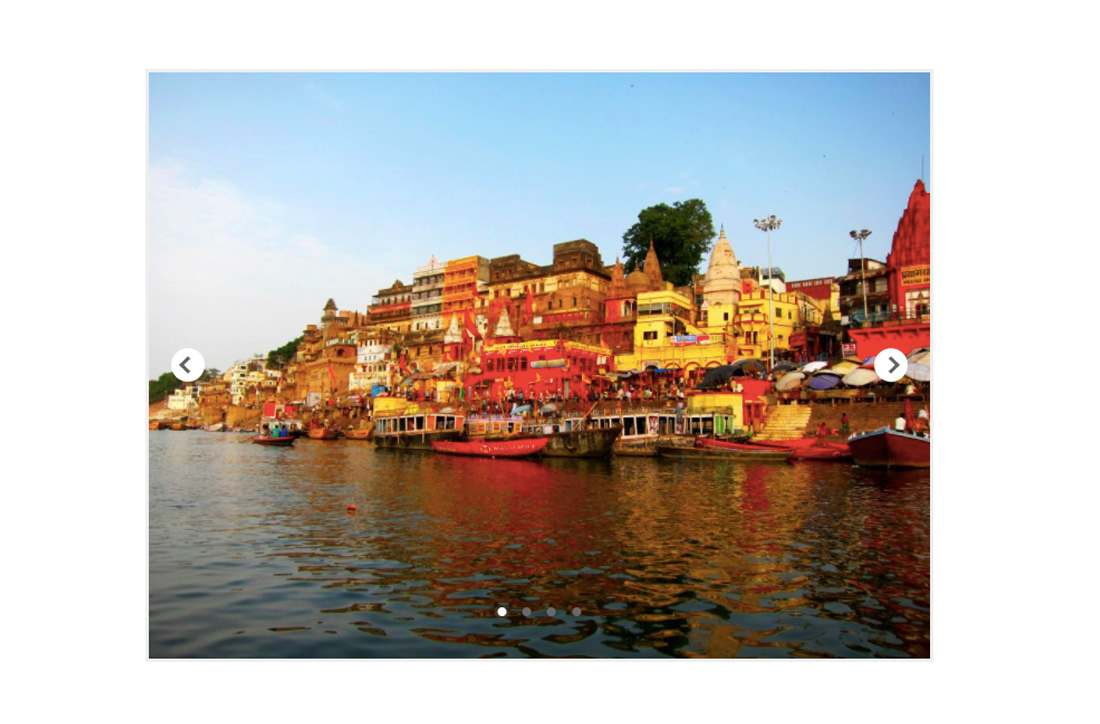
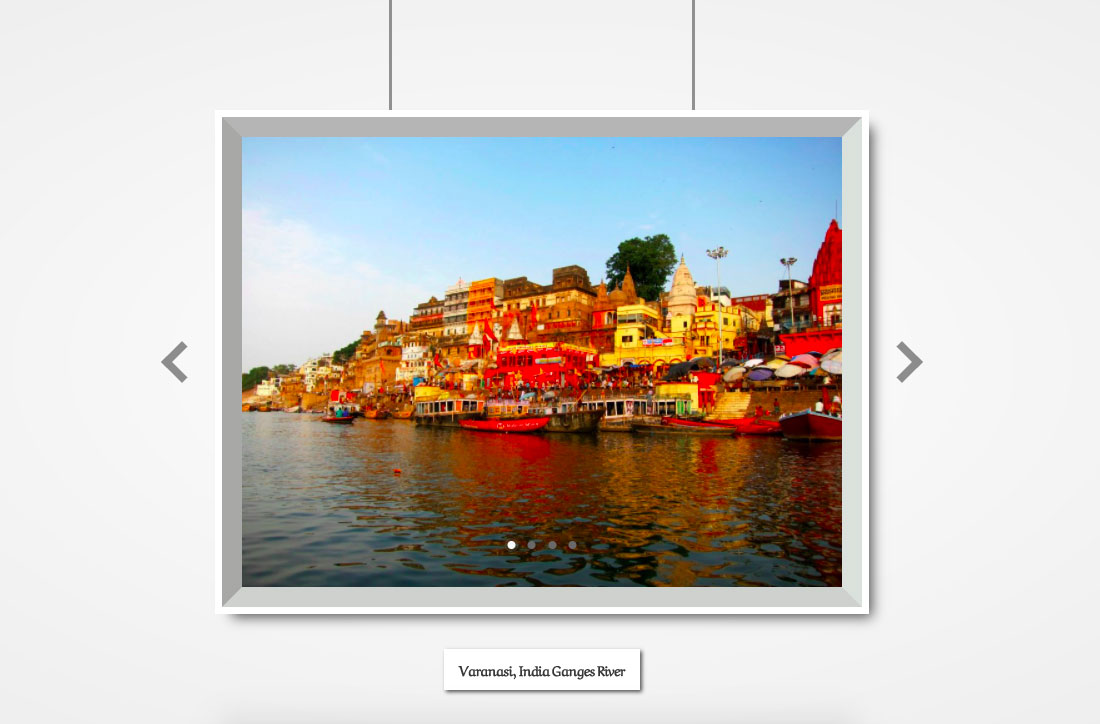
캐러셀이미지갤러리 콘텐츠 완성이미지로 대체

diff --git a/index.html b/index.html
@@ -52,7 +52,7 @@
               <img src="images/carousel-img.jpg" width="100%" alt="이미지 캐러셀 메인 이미지">
             </a>
             <h3>Carousel Image Gallery</h3>
-            <p>자바스크립트로 작업한 캐러셀 : project is under way</p>
+            <p>자바스크립트로 작업한 캐러셀</p>
           </article>
         </div>
         <div class="two_content cf">

diff --git a/css/common.css b/css/common.css
@@ -36,9 +36,6 @@ video.rwd-video {
   height: auto;
 }
 
-
-
-
 /* 배경 이미지(CSS)에 적용되는 Fluid BG Image ?????*/
 .rwd-img-3-4 {
   width: 100%;
@@ -76,9 +73,6 @@ video.rwd-video {
   width: 100%;
   height: 100%;
 }
-
-
-
 
 img.horizontal-center-img {
   margin-left: 50%;
